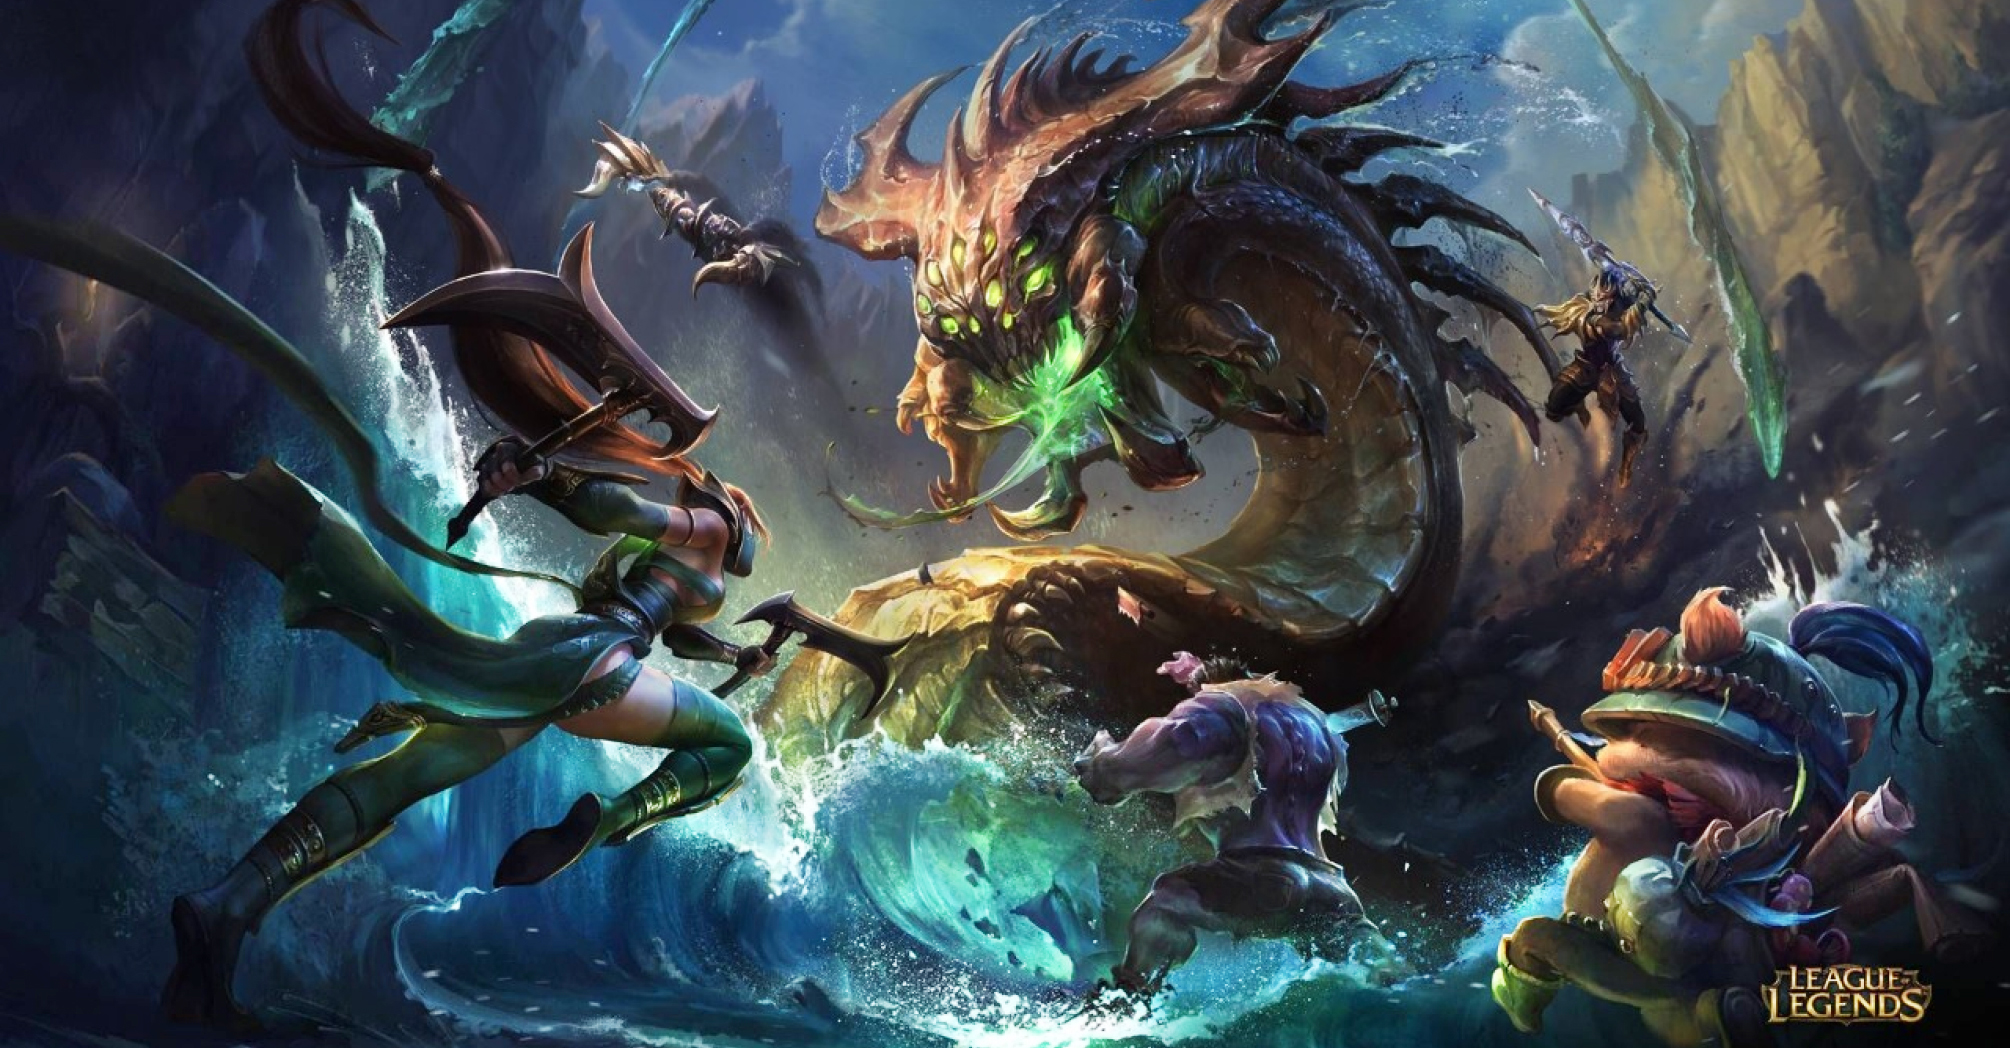
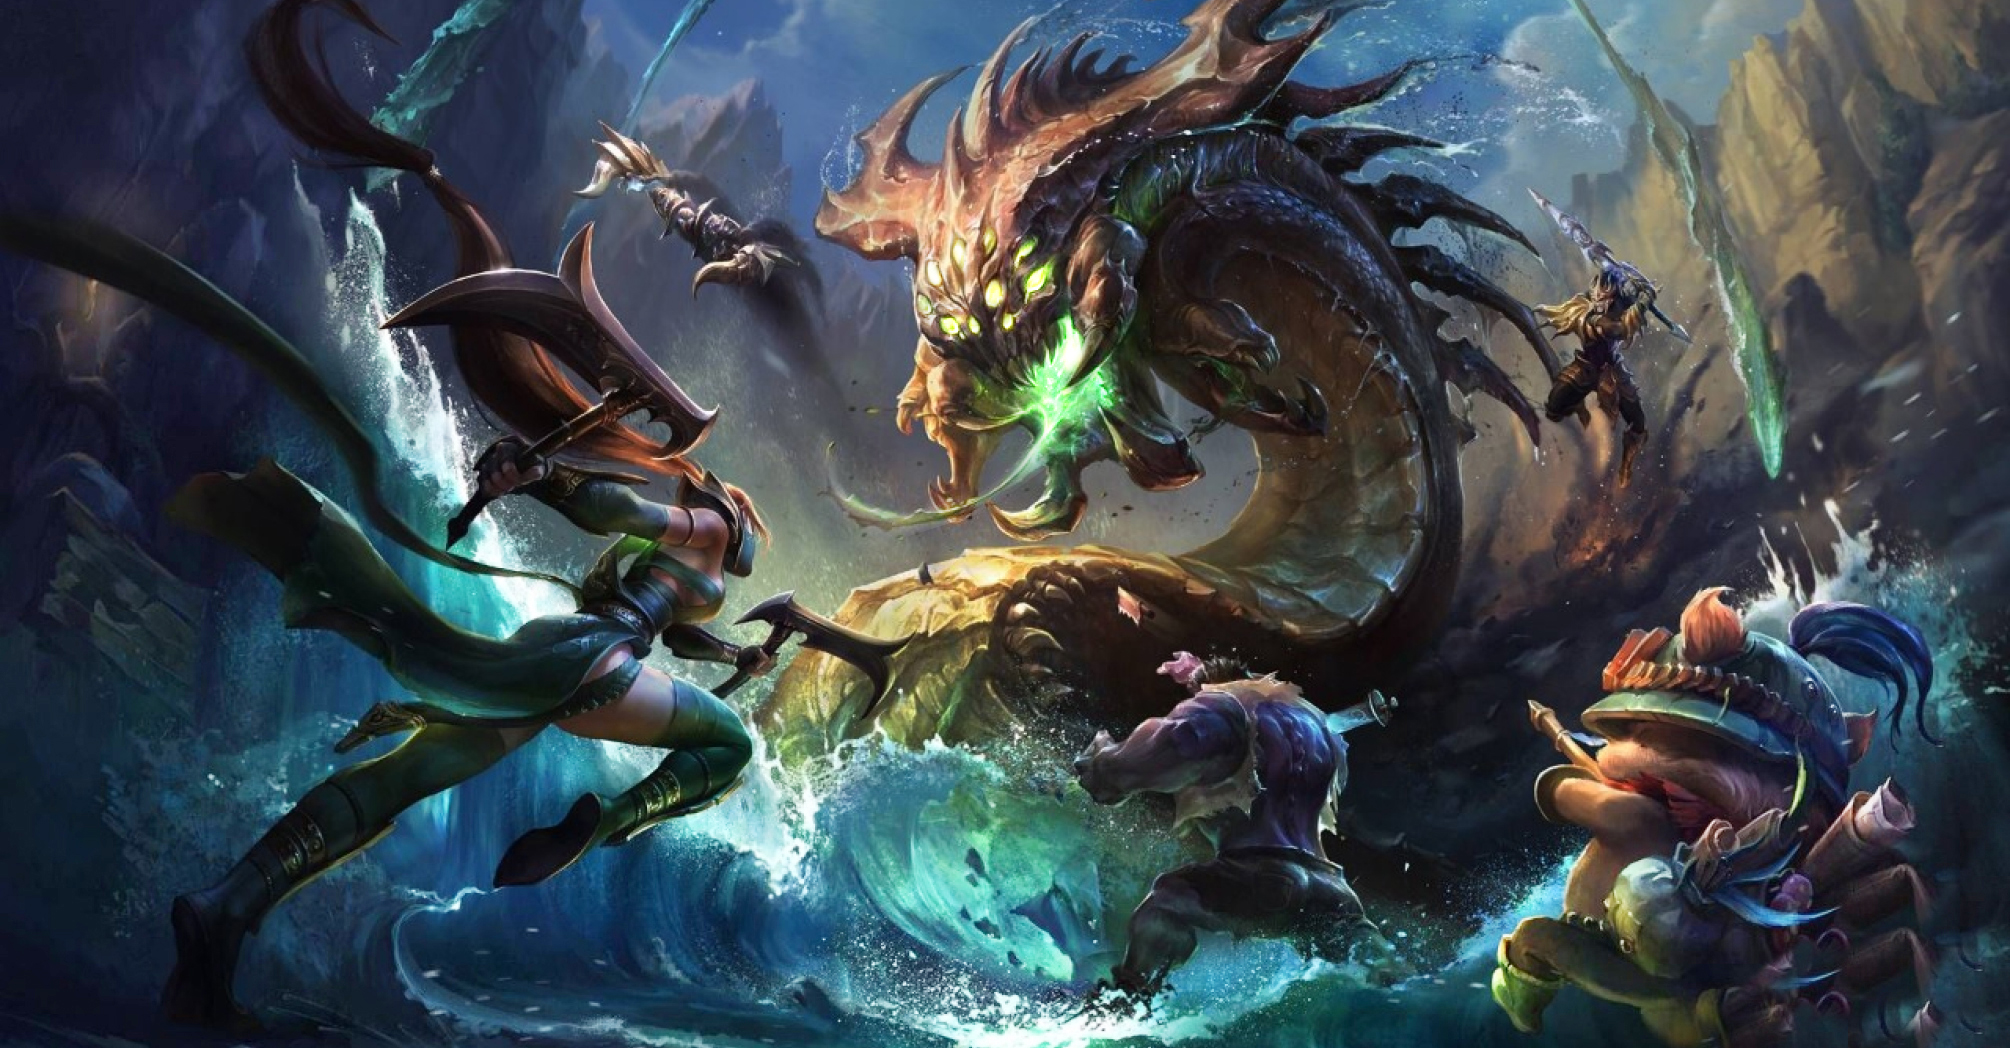
Upgrade

diff --git a/index.html b/index.html
@@ -59,7 +59,7 @@
                 </div>
                 <div class="conteiner-image">
                     <figure>
-                        <img class="league-1" class="league1-none" src="images/Background-League-of-Legends.png" alt="League of Legends">
+                        <img class="league-1" class="league1-none" src="images/Background-League-of-Legends.jpg" alt="League of Legends">
                     </figure>
                     <figure>
                         <img class="league-2" src="images/Background-League-of-Legends-02.jpg" alt="League of Legends">

diff --git a/style.css b/style.css
@@ -6,6 +6,10 @@
     font-family: 'Inter', sans-serif;
 }
 
+body{
+    overflow: hidden;
+}
+
 .all-conteiners{
     display: flex;
 }
@@ -229,7 +233,7 @@
 
 @media (max-width: 1068px){
     body{
-        background-image: url(images/Background-League-of-Legends.png);
+        background-image: url(images/Background-League-of-Legends.jpg);
         background-repeat: no-repeat;
         background-attachment: fixed;
         background-size: cover;
